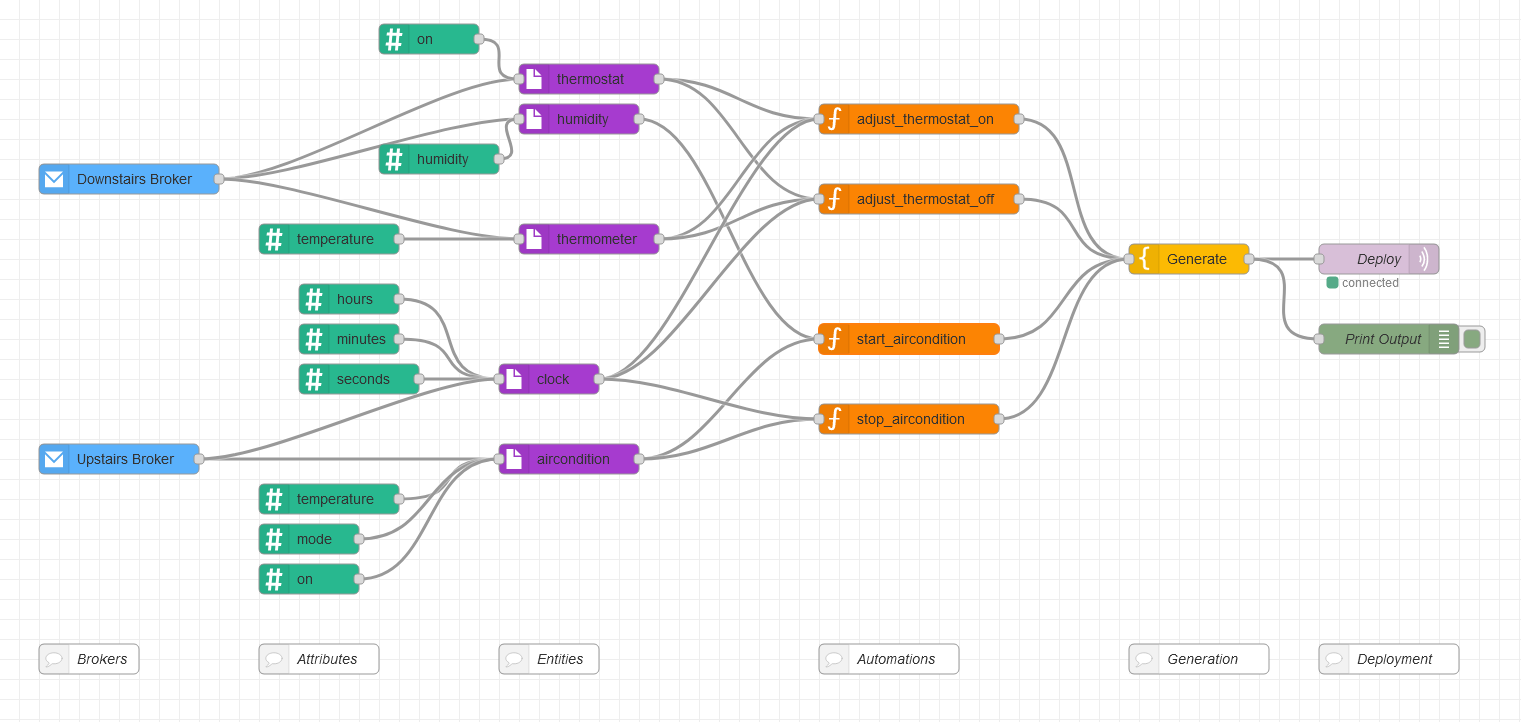
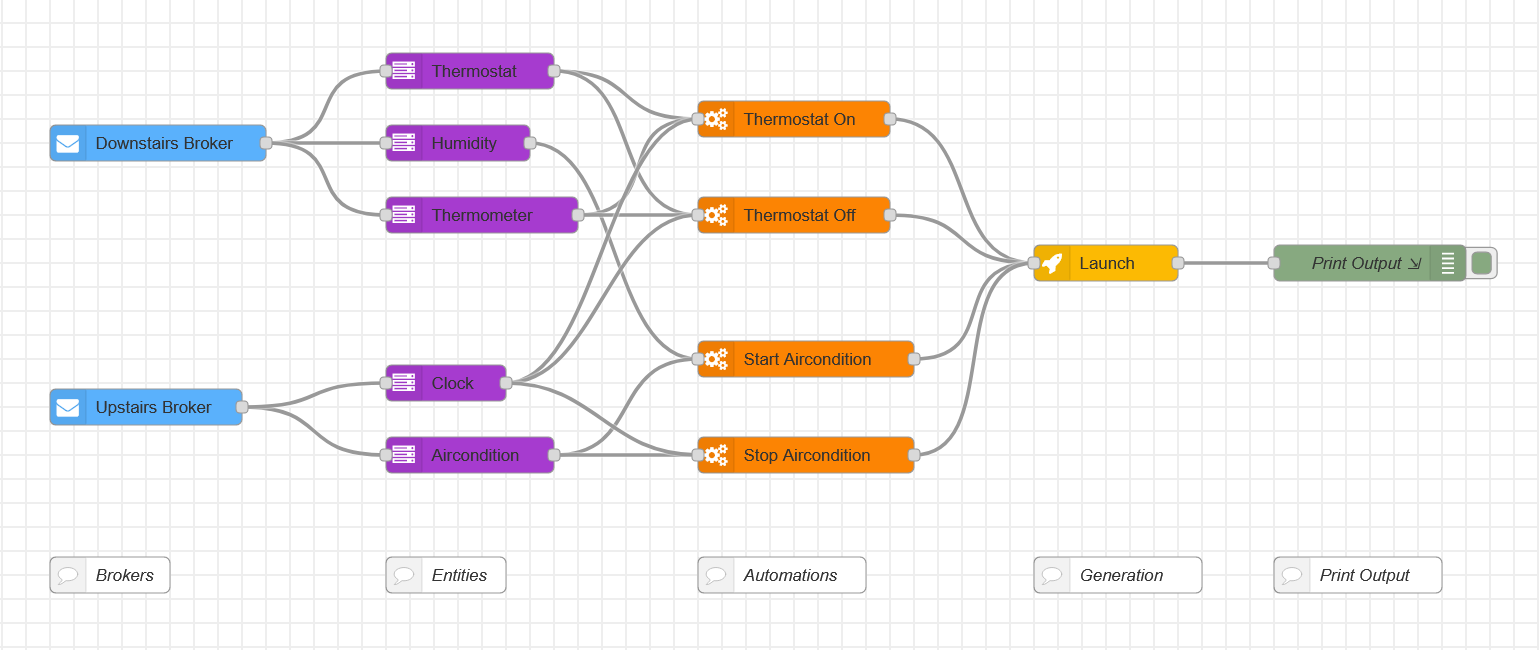
Updated Example 1 with all the latest changes

diff --git a/examples/example 1/README.md b/examples/example 1/README.md
@@ -11,6 +11,6 @@ This is an example simulating a house with the following:
 ## Instructions:
 1. Install the node-red-contrib-ha-auto extension to Node-RED
 2. Download and import flow.js to Node-RED
-3. Configure the MQTT node at the end of the flow with the server that the HA-Auto backend is listening on.
+3. Configure the Launch node at the end of the flow with the MQTT server that the HA-Auto backend is listening on.
 4. Deploy the flow. You can see the HA-Auto script being sent via the MQTT server using a utility like MQTT Explorer
-or by inspecting msg.payload{} after the generate node in the Node-RED flow.
+or by inspecting msg.payload{} after the Launch node in the Node-RED flow.
